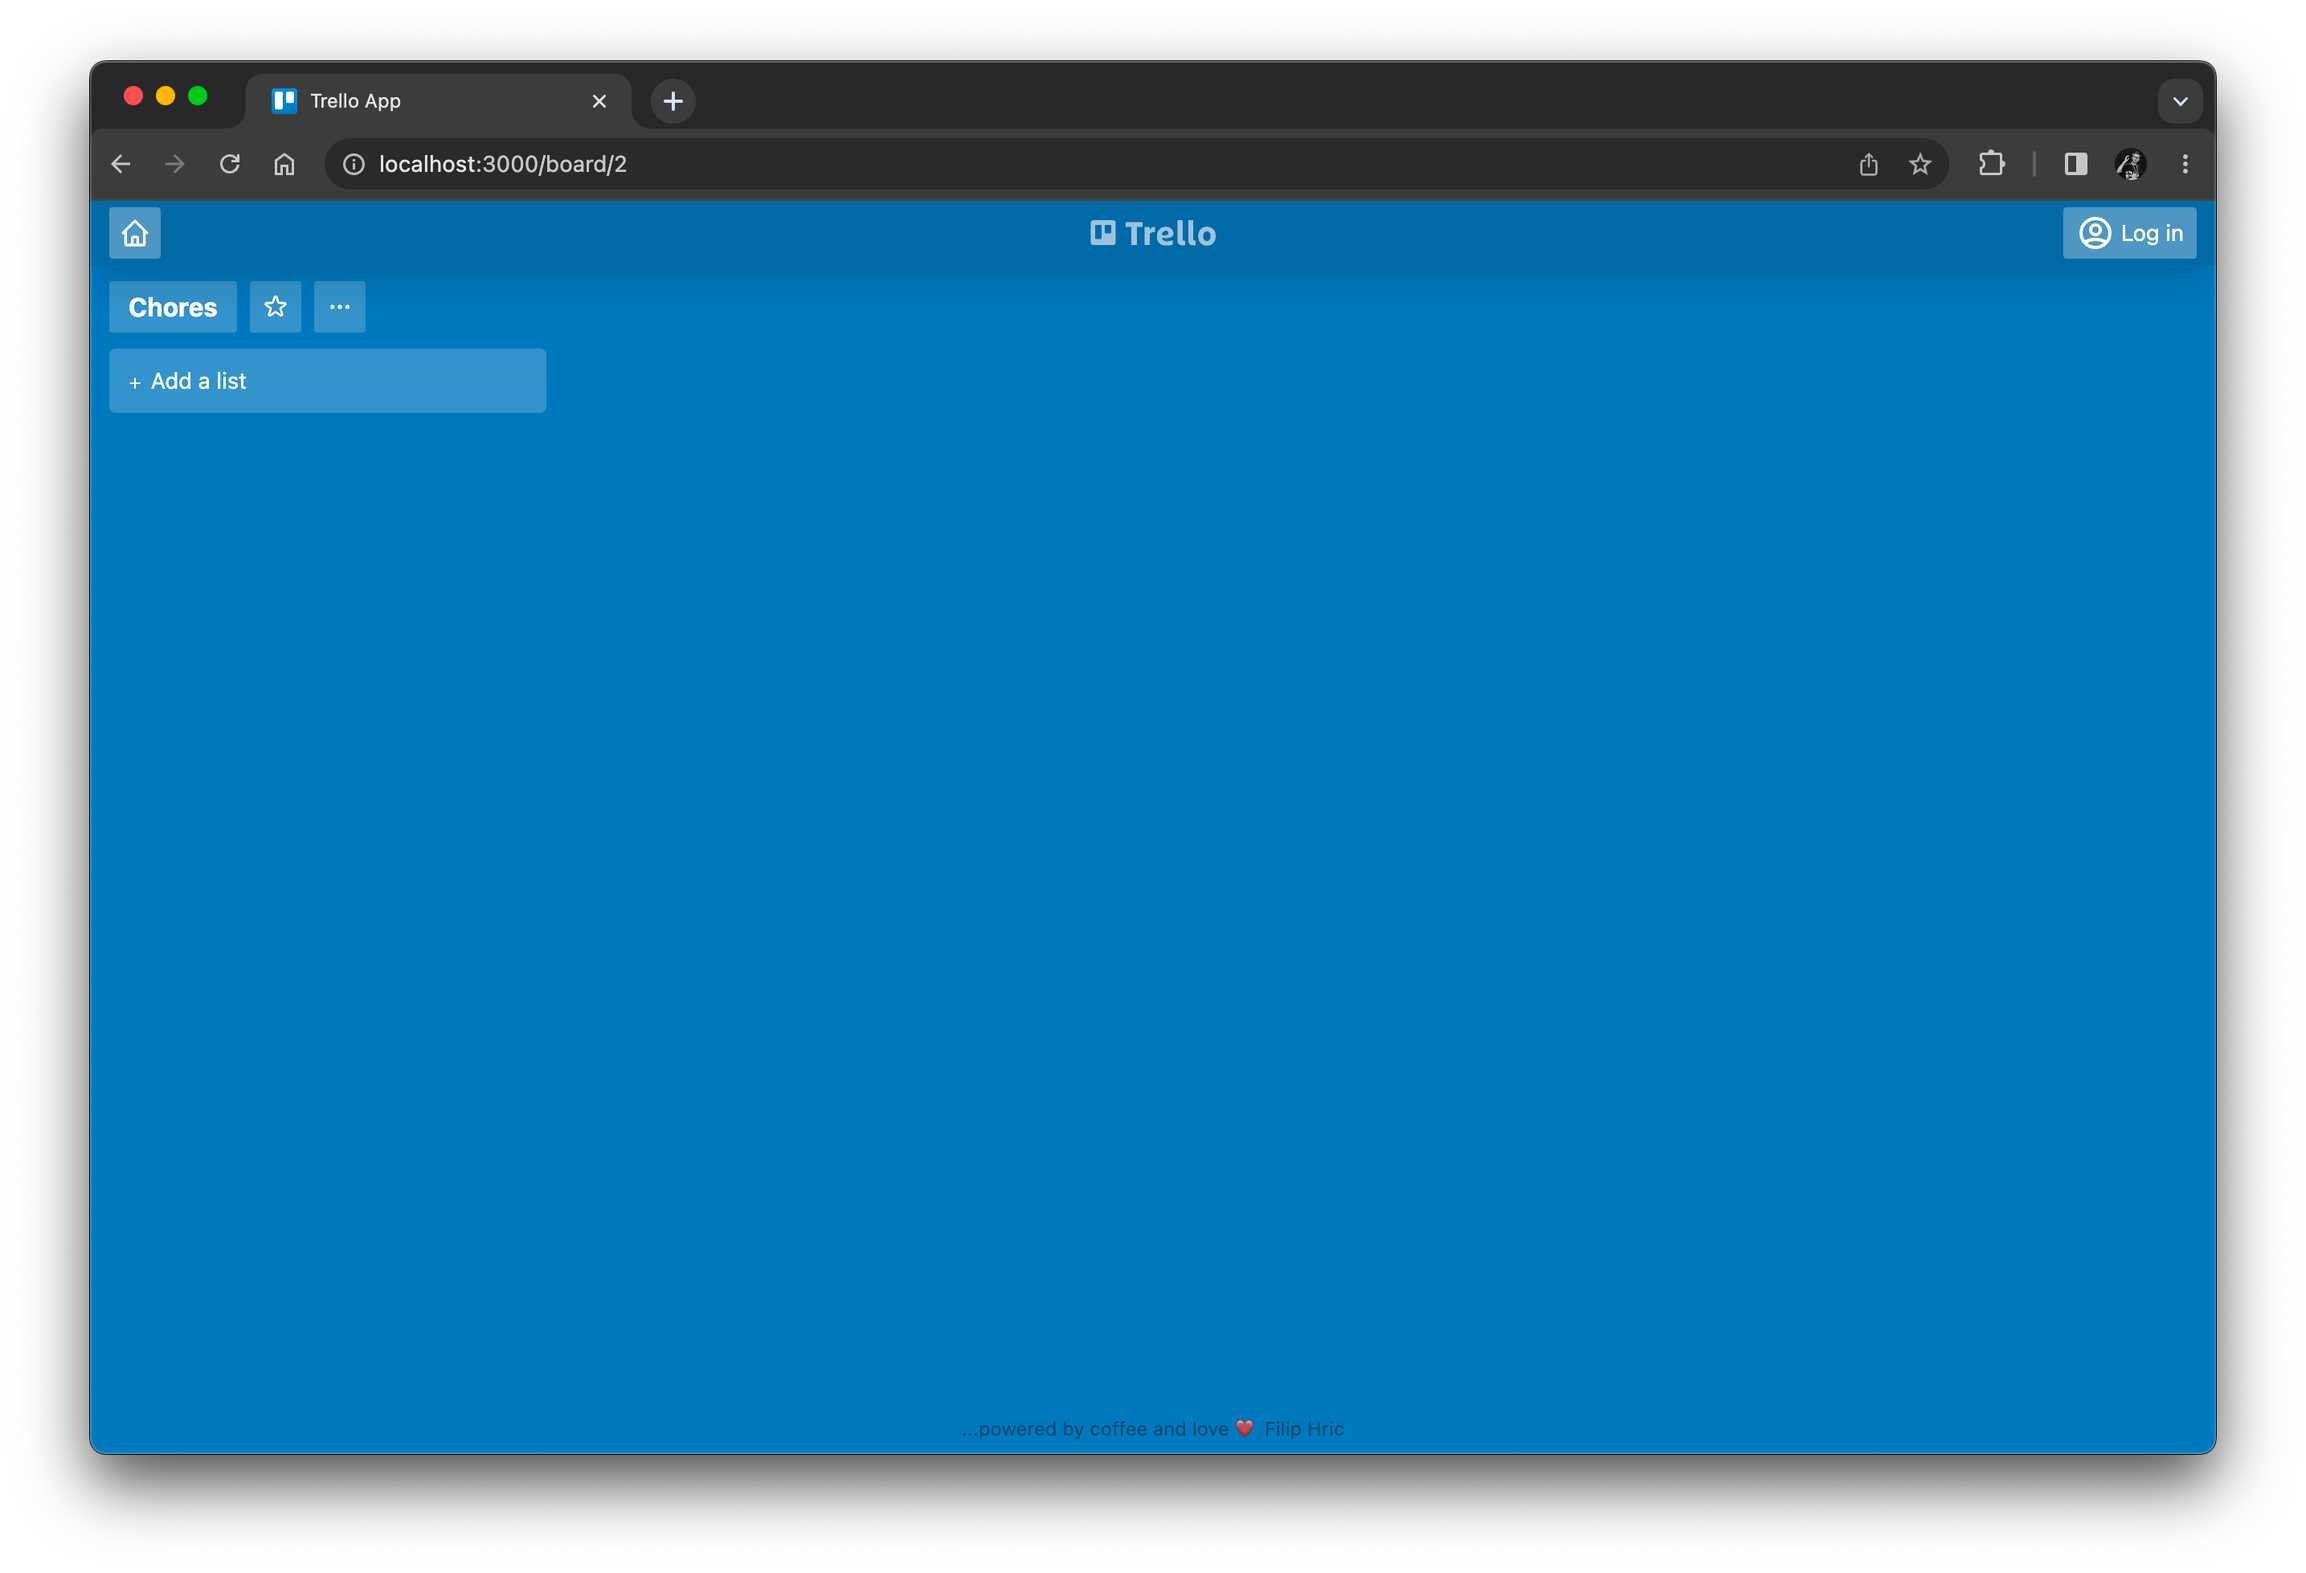
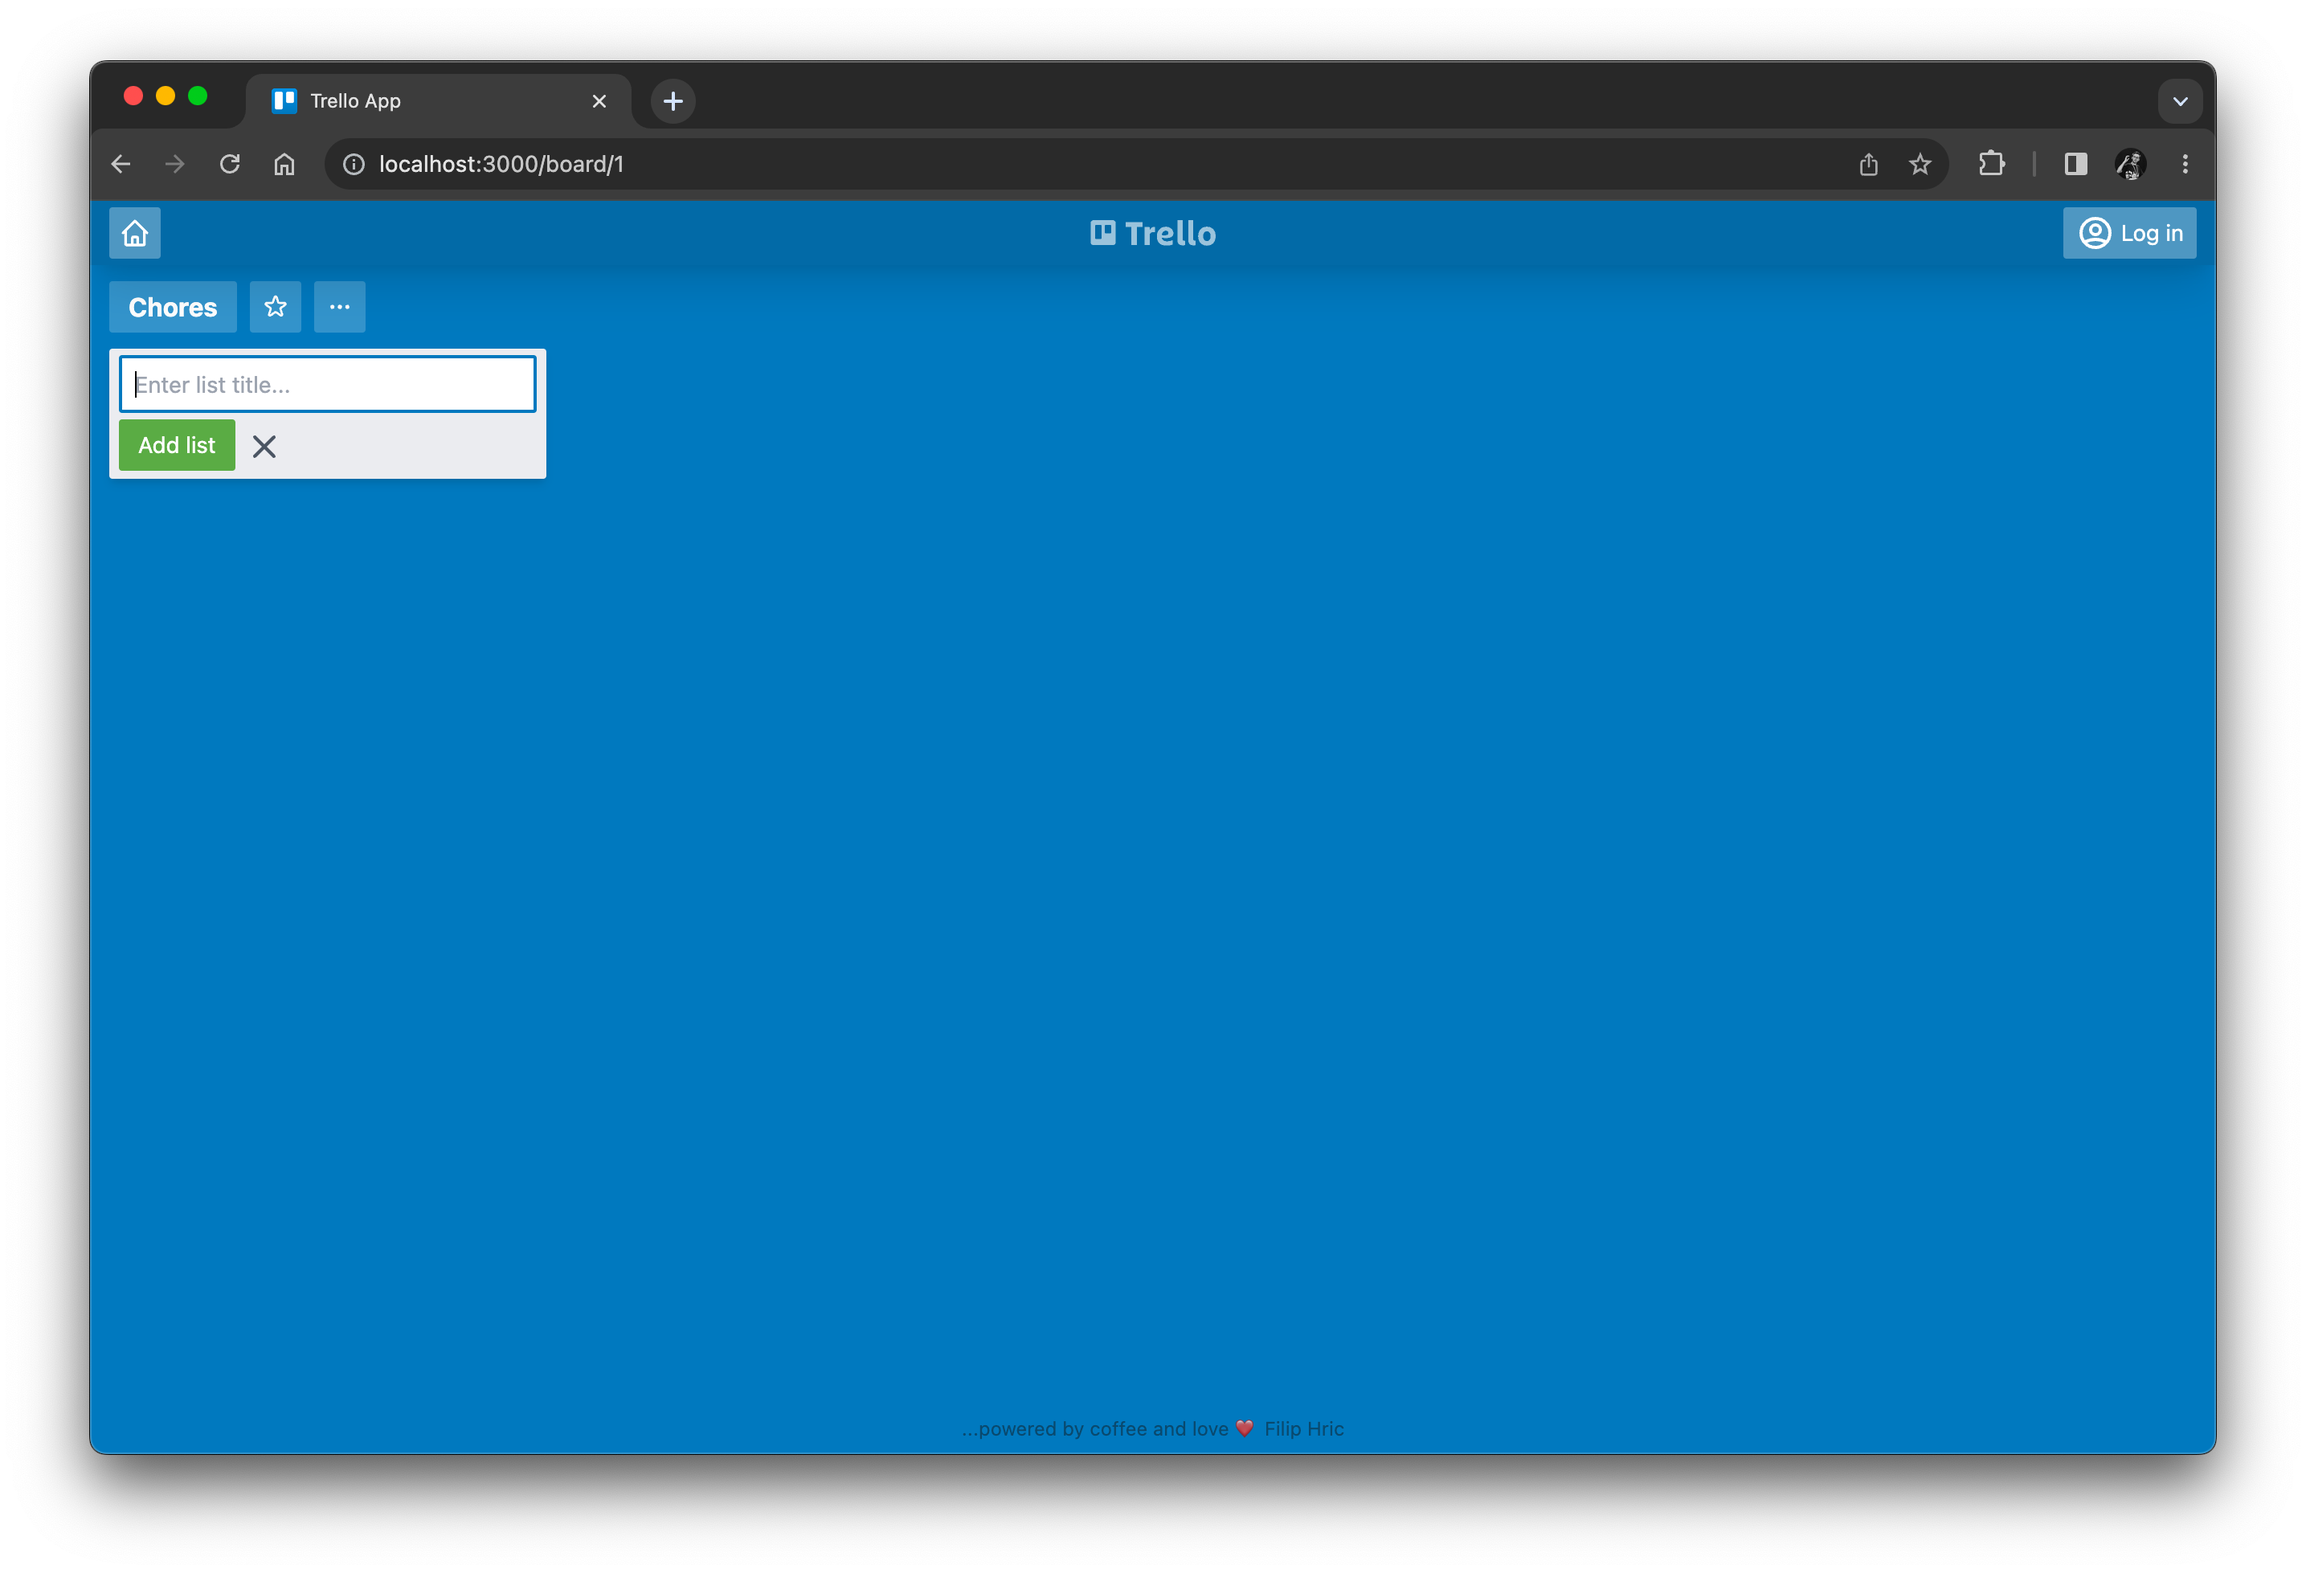
Correction

Changed region(s): [[0.031, 0.2181, 0.2481, 0.3115]]

diff --git a/tutorial/03-first-test.md b/tutorial/03-first-test.md
@@ -224,7 +224,7 @@ We can edit the code to be like this:
 ```
 
 After creating the new board,
-the app should display it on a new page with its name and an "Add a list" button:
+the app should display it on a new page with its name and an "Enter list title..." field:
 
 ![Trello new board page](images/ch03/trello-new-board.png)
 
